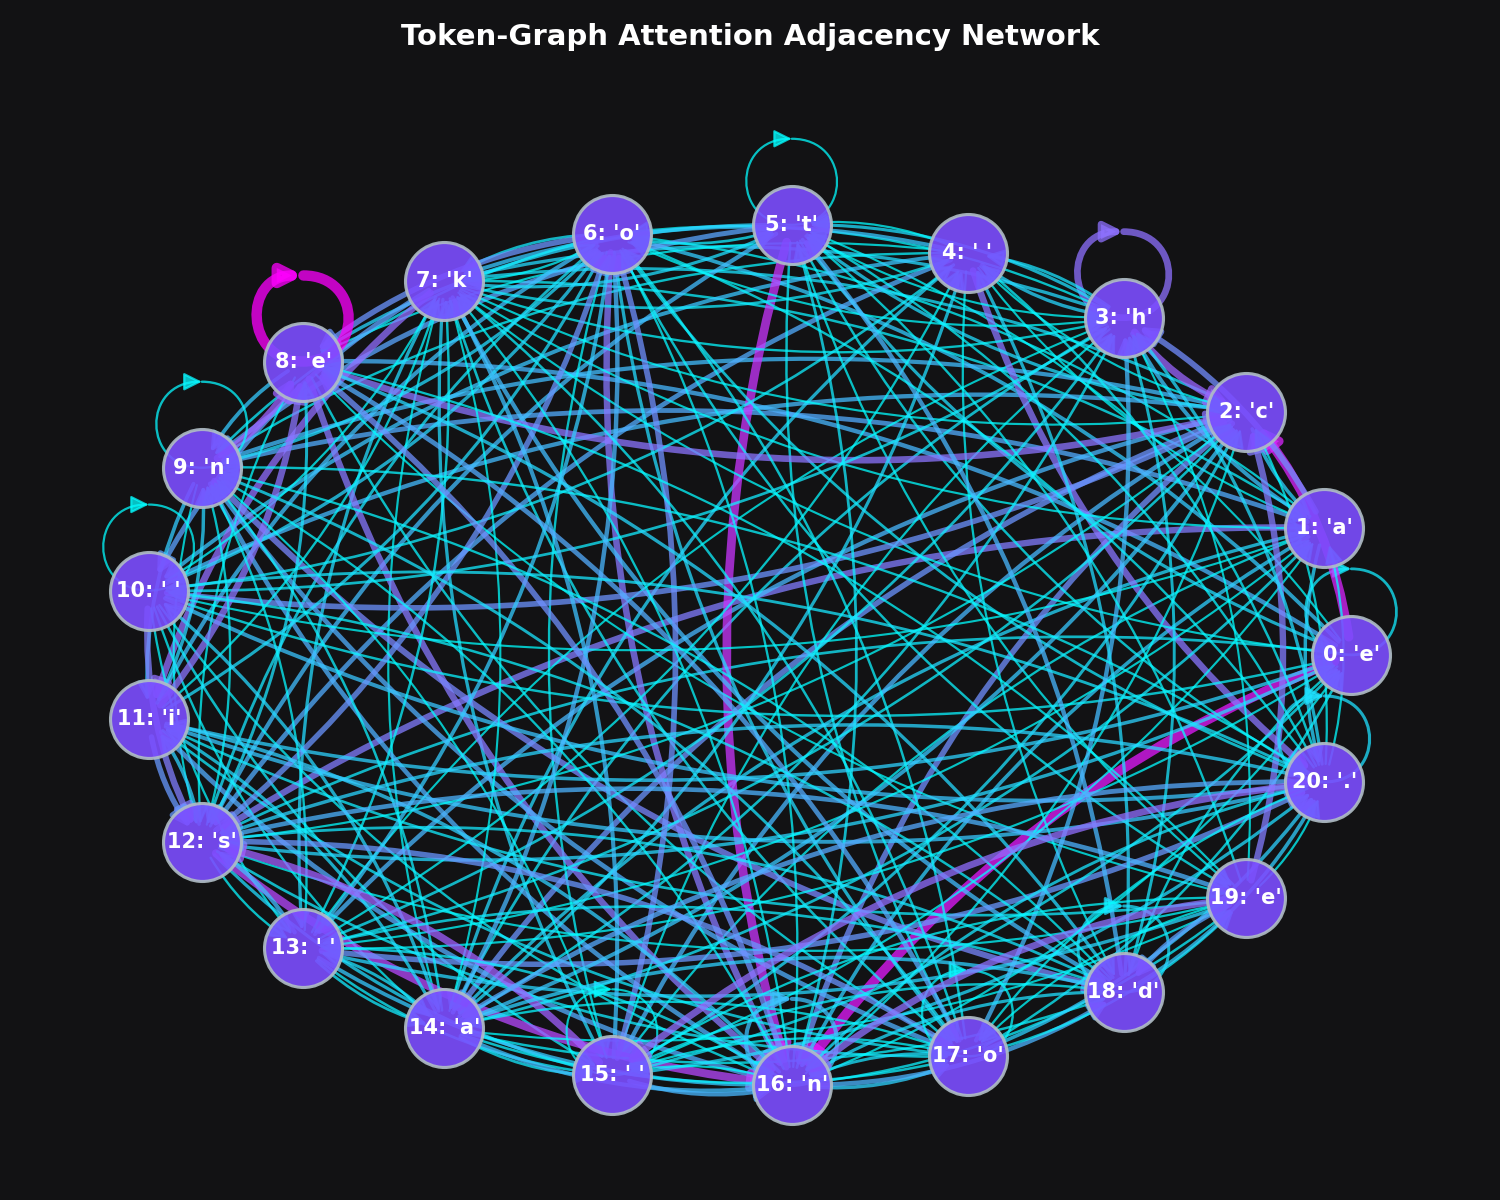
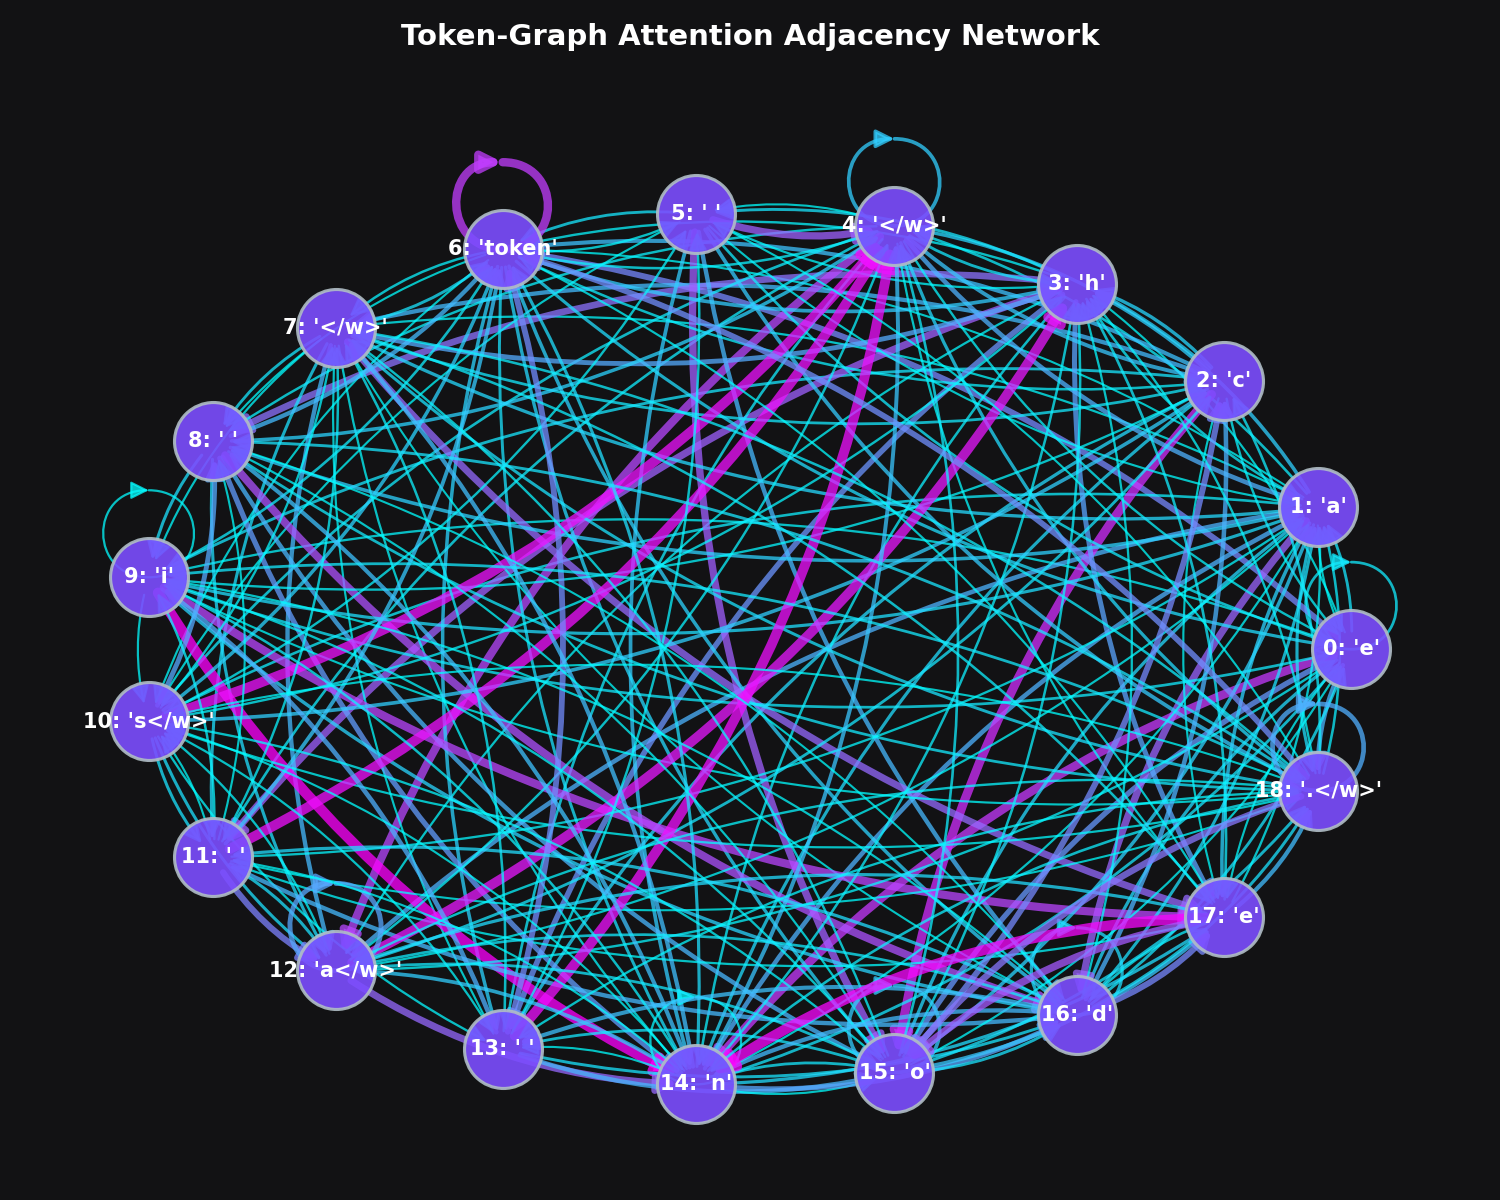
feat(graph-transformer): implement BPE subword tokenizer from scratch and align causal sequence slicing

diff --git a/Graph_NN_samples/graph_transformer_network/graph_transformer.py b/Graph_NN_samples/graph_transformer_network/graph_transformer.py
@@ -4,29 +4,104 @@ import torch.nn.functional as F
 import math
 from typing import List, Dict, Tuple, Optional
 
-class SimpleTokenizer:
-    """A lightweight character-level tokenizer for demonstration purposes."""
-    def __init__(self, text_corpus: str):
-        # Create a sorted list of unique characters in the corpus
-        self.chars = sorted(list(set(text_corpus)))
-        # Add special tokens
-        if '<pad>' not in self.chars:
-            self.chars.append('<pad>')
-        if '<unk>' not in self.chars:
-            self.chars.append('<unk>')
+class BPETokenizer:
+    """A lightweight, from-scratch Byte Pair Encoding (BPE) Subword Tokenizer."""
+    def __init__(self, text_corpus: str, num_merges: int = 40):
+        self.special_tokens = ['<pad>', '<unk>', ' ', '</w>']
+        unique_chars = sorted(list(set(text_corpus)))
+        # Remove duplicates if space exists in corpus already
+        unique_chars = [c for c in unique_chars if c not in self.special_tokens]
+        self.vocab = self.special_tokens + unique_chars
+        self.vocab_size = len(self.vocab)
         
-        self.vocab_size = len(self.chars)
-        self.char_to_id = {char: idx for idx, char in enumerate(self.chars)}
-        self.id_to_char = {idx: char for idx, char in enumerate(self.chars)}
+        self.token_to_id = {t: i for i, t in enumerate(self.vocab)}
+        self.id_to_token = {i: t for t, i in self.token_to_id.items()}
         
-        self.pad_id = self.char_to_id['<pad>']
-        self.unk_id = self.char_to_id['<unk>']
+        self.pad_id = self.token_to_id['<pad>']
+        self.unk_id = self.token_to_id['<unk>']
+        self.merges = {}
+        
+        self._train_bpe(text_corpus, num_merges)
+        
+    def _train_bpe(self, corpus: str, num_merges: int):
+        words = corpus.split(' ')
+        tokenized_words = [list(w) + ['</w>'] for w in words]
+        
+        if '</w>' not in self.token_to_id:
+            self._add_to_vocab('</w>')
+            
+        for _ in range(num_merges):
+            pairs = {}
+            for word in tokenized_words:
+                for i in range(len(word) - 1):
+                    pair = (word[i], word[i+1])
+                    pairs[pair] = pairs.get(pair, 0) + 1
+            
+            if not pairs:
+                break
+                
+            best_pair = max(pairs, key=pairs.get)
+            if pairs[best_pair] < 2:
+                break
+                
+            merged_token = best_pair[0] + best_pair[1]
+            self._add_to_vocab(merged_token)
+            self.merges[best_pair] = merged_token
+            
+            new_tokenized_words = []
+            for word in tokenized_words:
+                new_word = []
+                i = 0
+                while i < len(word):
+                    if i < len(word) - 1 and (word[i], word[i+1]) == best_pair:
+                        new_word.append(merged_token)
+                        i += 2
+                    else:
+                        new_word.append(word[i])
+                        i += 1
+                new_tokenized_words.append(new_word)
+            tokenized_words = new_tokenized_words
+
+    def _add_to_vocab(self, token: str):
+        if token not in self.token_to_id:
+            new_id = len(self.vocab)
+            self.vocab.append(token)
+            self.token_to_id[token] = new_id
+            self.id_to_token[new_id] = token
+            self.vocab_size = len(self.vocab)
 
     def encode(self, text: str) -> List[int]:
-        return [self.char_to_id.get(char, self.unk_id) for char in text]
+        words = text.split(' ')
+        encoded_ids = []
+        
+        for w_idx, w in enumerate(words):
+            word_tokens = list(w) + ['</w>']
+            for pair, merged in self.merges.items():
+                new_word = []
+                i = 0
+                while i < len(word_tokens):
+                    if i < len(word_tokens) - 1 and (word_tokens[i], word_tokens[i+1]) == pair:
+                        new_word.append(merged)
+                        i += 2
+                    else:
+                        new_word.append(word_tokens[i])
+                        i += 1
+                word_tokens = new_word
+            
+            for token in word_tokens:
+                encoded_ids.append(self.token_to_id.get(token, self.unk_id))
+            
+            if w_idx < len(words) - 1:
+                if ' ' not in self.token_to_id:
+                    self._add_to_vocab(' ')
+                encoded_ids.append(self.token_to_id[' '])
+                
+        return encoded_ids
 
     def decode(self, ids: List[int]) -> str:
-        return "".join([self.id_to_char.get(idx, '<unk>') for idx in ids if idx != self.pad_id])
+        tokens = [self.id_to_token.get(idx, '<unk>') for idx in ids if idx != self.pad_id]
+        decoded = "".join(tokens).replace('</w>', ' ')
+        return decoded
 
 
 class GraphTransformerLayer(nn.Module):

diff --git a/Graph_NN_samples/graph_transformer_network/run_demo.py b/Graph_NN_samples/graph_transformer_network/run_demo.py
@@ -2,7 +2,7 @@ import torch
 import torch.optim as optim
 import torch.nn as nn
 import numpy as np
-from graph_transformer import SimpleTokenizer, GraphTransformerModel, compute_cosine_similarity
+from graph_transformer import BPETokenizer, GraphTransformerModel, compute_cosine_similarity
 from visualizer import draw_token_graph
 import os
 
@@ -24,7 +24,7 @@ def main():
     print(f"\n[1] Prepared training corpus ({len(corpus)} characters).")
     
     # 2. Tokenizer setup
-    tokenizer = SimpleTokenizer(corpus)
+    tokenizer = BPETokenizer(corpus, num_merges=30)
     print(f"    Vocabulary Size: {tokenizer.vocab_size} characters/tokens.")
     
     # 3. Model setup
@@ -42,12 +42,10 @@ def main():
     ).to(device)
     
     # 4. Prepare training data
-    # Create input-target pairs for next-token prediction
-    input_text = corpus[:-1]
-    target_text = corpus[1:]
-    
-    input_ids = torch.tensor([tokenizer.encode(input_text)], dtype=torch.long, device=device)
-    target_ids = torch.tensor([tokenizer.encode(target_text)], dtype=torch.long, device=device)
+    # Tokenize full corpus first, then slice token IDs to preserve subword alignments
+    full_ids = tokenizer.encode(corpus)
+    input_ids = torch.tensor([full_ids[:-1]], dtype=torch.long, device=device)
+    target_ids = torch.tensor([full_ids[1:]], dtype=torch.long, device=device)
     
     # 5. Train the model
     print("\n[2] Training the Graph Transformer model (Next Token Prediction)...")
@@ -124,8 +122,8 @@ def main():
         # attention_maps[0] shape: [1, n_heads, seq_len, seq_len]
         attn_matrix = attention_maps[0][0].mean(dim=0).cpu().numpy()
         
-    # Split token characters for node labels
-    tokens = list(sample_sentence)
+    # Extract BPE subword token strings for node labels
+    tokens = [tokenizer.id_to_token[idx] for idx in tokenizer.encode(sample_sentence)]
     
     plot_dir = os.path.join(os.getcwd(), "plots")
     os.makedirs(plot_dir, exist_ok=True)
